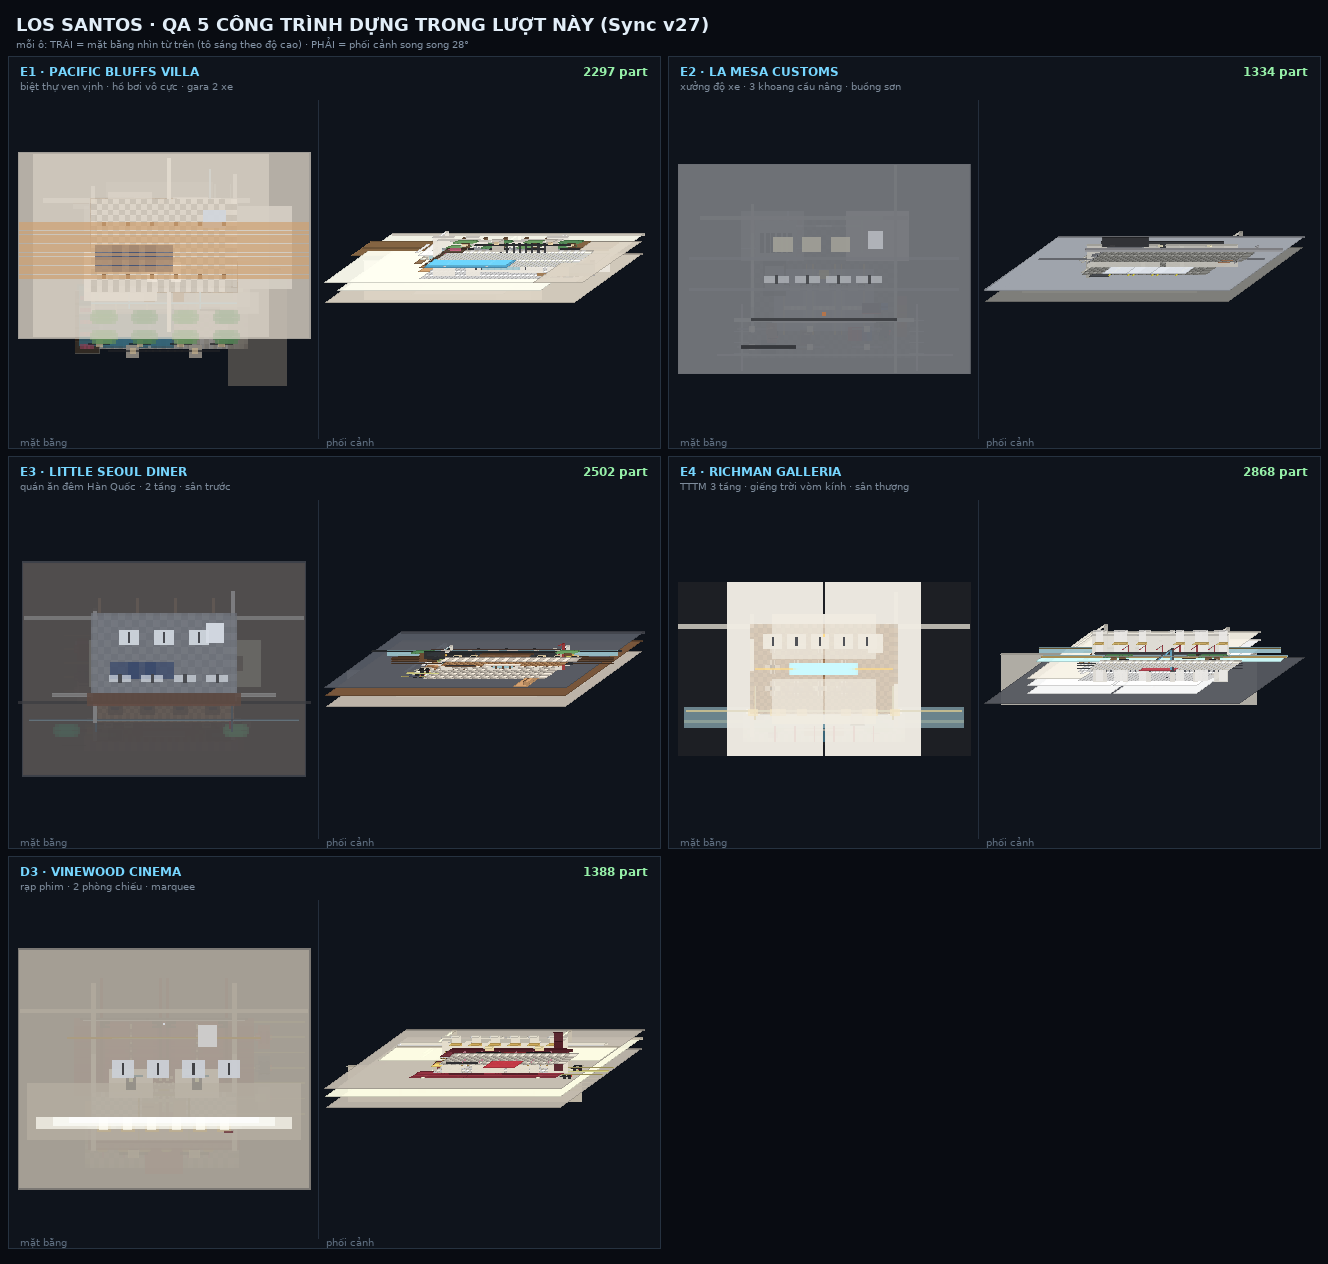
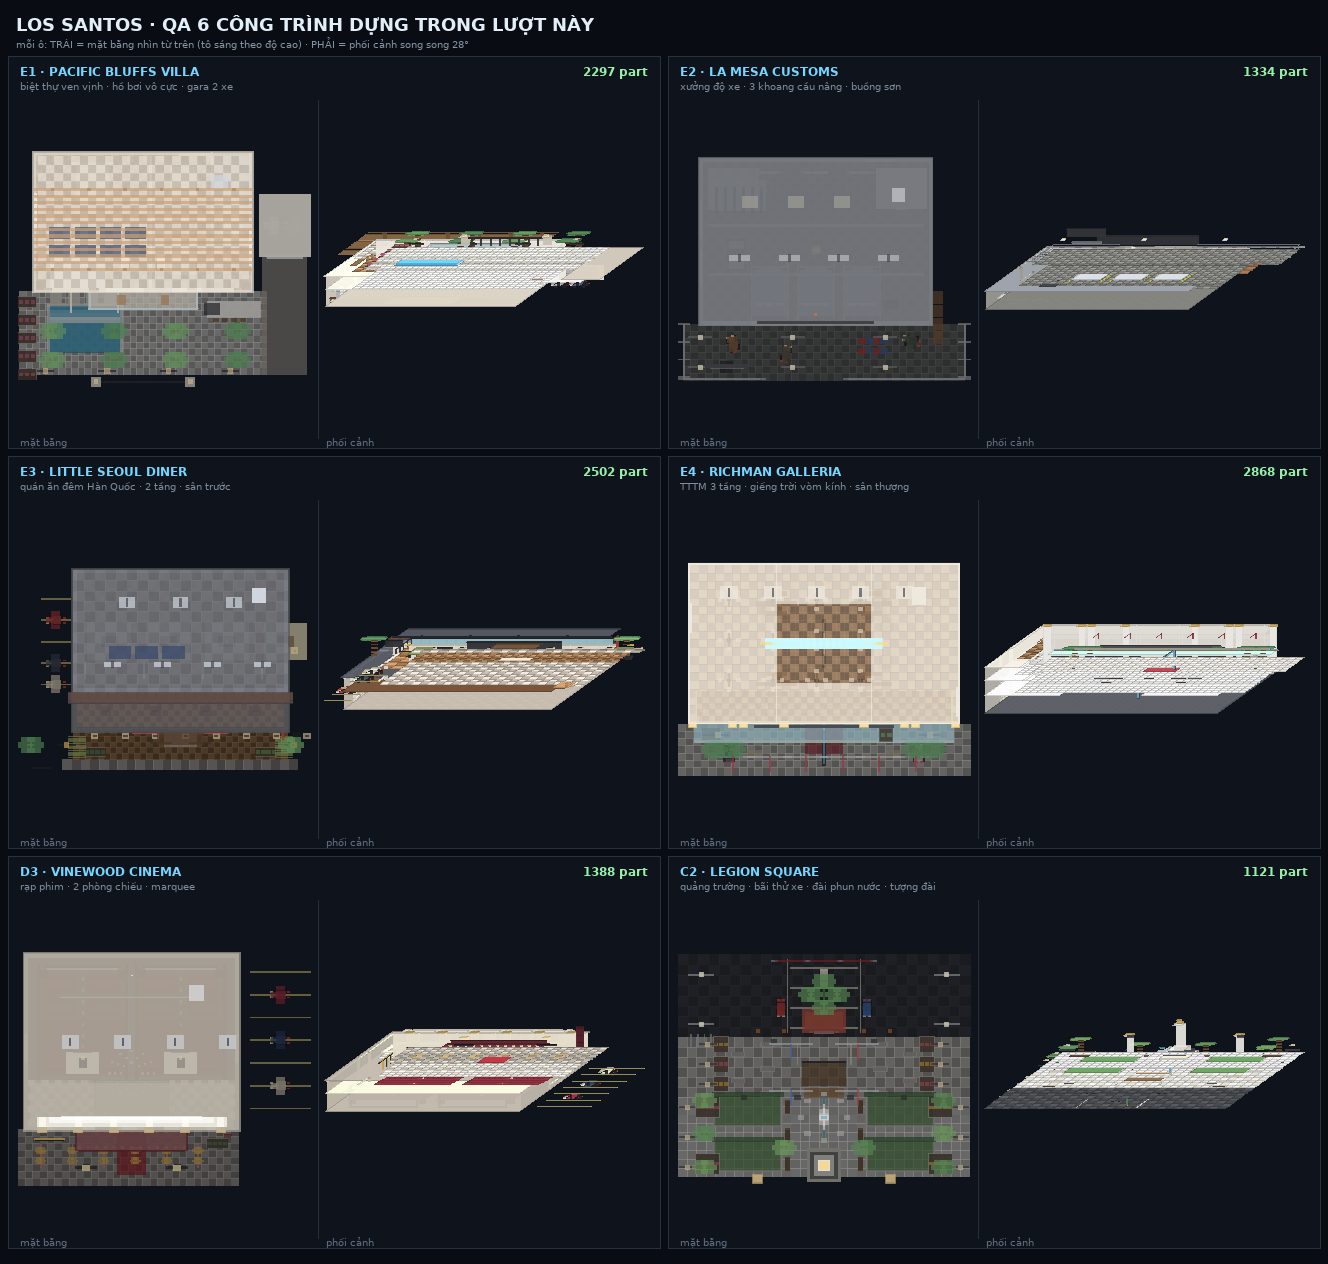
docs(qa): ảnh bản đồ + phối cảnh cập nhật (có C2), đưa script vẽ vào tools/building_sim

diff --git a/tools/building_sim/render_map.py b/tools/building_sim/render_map.py
@@ -1,0 +1,101 @@
+#!/usr/bin/env python3
+# Vẽ bản đồ QA thành phố từ /api/services của bridge + dump_parts.cjs.
+#   node tools/building_sim/dump_parts.cjs > /tmp/parts_all.json
+#   python3 tools/building_sim/render_map.py        # cần Pillow
+# Hình khối = chiếu bằng thật của từng part (nửa kích thước) — nhìn là thấy ô nào trống.
+import json, urllib.request
+from PIL import Image, ImageDraw, ImageFont
+
+parts = json.load(open("/tmp/parts_all.json"))
+svc = json.load(urllib.request.urlopen("http://localhost:8080/api/services"))
+W, H = 1680, 900
+X0, X1, Z0, Z1 = -640, 640, -300, 200
+MX, MY, MTOP = 54, 18, 74
+scale = min((W - 2 * MX) / (X1 - X0), (H - MTOP - 30) / (Z1 - Z0))
+ox = (W - (X1 - X0) * scale) / 2
+oy = MTOP + (H - MTOP - 30 - (Z1 - Z0) * scale) / 2
+def sx(x): return ox + (x - X0) * scale
+def sz(z): return oy + (z - Z0) * scale
+
+img = Image.new("RGB", (W, H), (7, 10, 15))
+d = ImageDraw.Draw(img, "RGBA")
+F = "/usr/share/fonts/truetype/dejavu/"
+f_t = ImageFont.truetype(F + "DejaVuSans-Bold.ttf", 22)
+f_m = ImageFont.truetype(F + "DejaVuSans-Bold.ttf", 13)
+f_s = ImageFont.truetype(F + "DejaVuSans.ttf", 10)
+f_sb = ImageFont.truetype(F + "DejaVuSans-Bold.ttf", 10)
+
+d.text((22, 14), "LOS SANTOS · 10/10 Ô ĐẤT ĐÃ CÓ CÔNG TRÌNH", font=f_t, fill=(230, 240, 250))
+n_part = sum(len(v["parts"]) for v in parts.values())
+d.text((22, 44), f"{n_part:,} BasePart · {len(parts)} module · 15 quầy dịch vụ đang chạy · hình khối = chiếu bằng thật của từng part"
+       .replace(",", " "), font=f_s, fill=(140, 156, 174))
+
+# ── đường ────────────────────────────────────────────────────────────────────
+EW = [(-224, 40, "VINEWOOD BLVD"), (-36, 48, "OLYMPIC FREEWAY"), (148, 40, "VESPUCCI BLVD")]
+NS = [(-556, 40, None), (-338, 40, None), (-110, 48, None), (110, 48, None), (338, 40, None), (556, 40, None)]
+for c, w, name in EW:
+    d.rectangle([sx(X0), sz(c - w/2), sx(X1), sz(c + w/2)], fill=(25, 30, 37, 255))
+    d.line([sx(X0), sz(c - w/2), sx(X1), sz(c - w/2)], fill=(52, 62, 74, 255), width=1)
+    d.line([sx(X0), sz(c + w/2), sx(X1), sz(c + w/2)], fill=(52, 62, 74, 255), width=1)
+    if name:
+        for px in range(int(sx(X0)), int(sx(X1)), 44):
+            d.line([px, sz(c), px + 22, sz(c)], fill=(72, 84, 98, 255), width=1)
+        d.text((sx(X0) + 12, sz(c) - 17), name, font=f_sb, fill=(116, 130, 146, 255))
+for c, w, _ in NS:
+    d.rectangle([sx(c - w/2), sz(Z0), sx(c + w/2), sz(Z1)], fill=(25, 30, 37, 255))
+    d.line([sx(c - w/2), sz(Z0), sx(c - w/2), sz(Z1)], fill=(52, 62, 74, 255), width=1)
+    d.line([sx(c + w/2), sz(Z0), sx(c + w/2), sz(Z1)], fill=(52, 62, 74, 255), width=1)
+
+# ── ô đất + hình khối công trình ─────────────────────────────────────────────
+for p in svc["plots"]:
+    cx, cz, sw, sh = p["cx"], p["cz"], p["sx"], p["sz"]
+    d.rectangle([sx(cx - sw/2), sz(cz - sh/2), sx(cx + sw/2), sz(cz + sh/2)],
+                fill=(22, 32, 44, 210), outline=(46, 74, 96, 255), width=1)
+
+plot_of = {}
+for f, v in parts.items():
+    plot_of.setdefault(v["plotId"], []).extend(v["parts"])
+
+for pid, plist in plot_of.items():
+    for q in sorted(plist, key=lambda r: r["y"]):
+        k = max(0.0, min(1.0, (q["y"] - 1.0) / 44.0))
+        c = q["c"]
+        col = (int(min(255, c[0] * (0.5 + 0.6 * k) + 34 * k)),
+               int(min(255, c[1] * (0.5 + 0.6 * k) + 34 * k)),
+               int(min(255, c[2] * (0.5 + 0.6 * k) + 38 * k)))
+        a = 225 if q["ey"] > 2.5 else 120
+        x0 = sx(q["x"] - q["ex"]); x1 = sx(q["x"] + q["ex"])
+        y0 = sz(q["z"] - q["ez"]); y1 = sz(q["z"] + q["ez"])
+        if x1 - x0 < 0.6: x1 = x0 + 0.6
+        if y1 - y0 < 0.6: y1 = y0 + 0.6
+        d.rectangle([x0, y0, x1, y1], fill=col + (a,))
+
+# ── nhãn ô + quầy ────────────────────────────────────────────────────────────
+ALIAS = {"E1": "Plot_E1", "D1": "Plot_D1", "D2": "Plot_D2", "D3": "Plot_D3", "E2": "Plot_E2",
+         "E3": "Plot_E3", "C1": "Plot_C1", "C2": "Plot_C2", "C3": "Plot_C3_East", "E4": "Plot_E4"}
+for p in svc["plots"]:
+    cx, cz, sw, sh = p["cx"], p["cz"], p["sx"], p["sz"]
+    pid = ALIAS.get(p["id"], "Plot_" + p["id"])
+    n = len(plot_of.get(pid, []))
+    if p["id"] == "C3":
+        n = len(plot_of.get("Plot_C3_East", [])) + len(plot_of.get("Plot_C3_West", []))
+    tx = sx(cx - sw/2) + 6
+    ty = sz(cz - sh/2) + 6
+    lab = f"{p['id']} · {p['district']}"
+    wd = max(d.textlength(lab, font=f_m), d.textlength(f"{n} part", font=f_s)) + 12
+    d.rectangle([tx, ty, tx + wd, ty + 32], fill=(9, 13, 19, 214), outline=(48, 78, 100, 255))
+    d.text((tx + 6, ty + 3), lab, font=f_m, fill=(126, 214, 255, 255))
+    d.text((tx + 6, ty + 19), f"{n} part", font=f_s, fill=(150, 240, 170, 255))
+
+for s in svc["services"]:
+    px, py = sx(s["x"]), sz(s["z"])
+    if s["active"]:
+        d.ellipse([px-13, py-13, px+13, py+13], fill=(56, 189, 248, 34))
+        d.ellipse([px-7, py-7, px+7, py+7], fill=(56, 189, 248, 92))
+        d.ellipse([px-3, py-3, px+3, py+3], fill=(190, 240, 255, 255))
+    else:
+        d.ellipse([px-4, py-4, px+4, py+4], outline=(120, 132, 148, 150), width=1)
+
+OUT = __import__("os").path.join(__import__("os").path.dirname(__file__), "..", "..", "agents", "reviews", "city-map-v27.png")
+img.save(OUT)
+print("saved", img.size)

diff --git a/tools/building_sim/render_buildings.py b/tools/building_sim/render_buildings.py
@@ -1,0 +1,103 @@
+#!/usr/bin/env python3
+# Vẽ mặt bằng + phối cảnh song song cho từng công trình trong dump_parts.
+#   node tools/building_sim/dump_parts.cjs Plot_E1_PacificBluffsVilla ... > /tmp/parts_v27.json
+#   python3 tools/building_sim/render_buildings.py   # cần Pillow
+import json, math
+from PIL import Image, ImageDraw, ImageFont
+
+data = json.load(open("/tmp/parts_v27.json"))
+F = "/usr/share/fonts/truetype/dejavu/"
+f_b = ImageFont.truetype(F + "DejaVuSans-Bold.ttf", 18)
+f_m = ImageFont.truetype(F + "DejaVuSans-Bold.ttf", 12)
+f_s = ImageFont.truetype(F + "DejaVuSans.ttf", 10)
+
+TITLES = {
+    "Plot_E1_PacificBluffsVilla": ("E1 · PACIFIC BLUFFS VILLA", "biệt thự ven vịnh · hồ bơi vô cực · gara 2 xe"),
+    "Plot_E2_LaMesaGarage": ("E2 · LA MESA CUSTOMS", "xưởng độ xe · 3 khoang cầu nâng · buồng sơn"),
+    "Plot_E3_LittleSeoulDiner": ("E3 · LITTLE SEOUL DINER", "quán ăn đêm Hàn Quốc · 2 tầng · sân trước"),
+    "Plot_E4_RichmanGalleria": ("E4 · RICHMAN GALLERIA", "TTTM 3 tầng · giếng trời vòm kính · sân thượng"),
+    "Plot_D3_VinewoodCinema": ("D3 · VINEWOOD CINEMA", "rạp phim · 2 phòng chiếu · marquee"),
+    "Plot_C2_LegionSquare": ("C2 · LEGION SQUARE", "quảng trường · bãi thử xe · đài phun nước · tượng đài"),
+}
+ORDER = ["Plot_E1_PacificBluffsVilla", "Plot_E2_LaMesaGarage", "Plot_E3_LittleSeoulDiner",
+         "Plot_E4_RichmanGalleria", "Plot_D3_VinewoodCinema", "Plot_C2_LegionSquare"]
+
+PW, PH = 660, 400
+COLS = 2
+ROWS = 3
+W, H = PW * COLS + 8, PH * ROWS + 64
+img = Image.new("RGB", (W, H), (9, 12, 18))
+d = ImageDraw.Draw(img, "RGBA")
+d.text((16, 14), "LOS SANTOS · QA 6 CÔNG TRÌNH DỰNG TRONG LƯỢT NÀY", font=f_b, fill=(226, 238, 248))
+d.text((16, 38), "mỗi ô: TRÁI = mặt bằng nhìn từ trên (tô sáng theo độ cao) · PHẢI = phối cảnh song song 28°",
+       font=f_s, fill=(132, 148, 166))
+
+def fit(pts, ax, ay, aw, ah):
+    xs = [p[0] for p in pts]; ys = [p[1] for p in pts]
+    bx0, bx1, by0, by1 = min(xs), max(xs), min(ys), max(ys)
+    s = min(aw / max(1e-6, bx1 - bx0), ah / max(1e-6, by1 - by0))
+    ox = ax + (aw - (bx1 - bx0) * s) / 2 - bx0 * s
+    oy = ay + (ah - (by1 - by0) * s) / 2 - by0 * s
+    return s, ox, oy
+
+def plan(parts, ax, ay, aw, ah):
+    pts = [(p["x"] - p["ex"], p["z"] - p["ez"]) for p in parts] + \
+          [(p["x"] + p["ex"], p["z"] + p["ez"]) for p in parts]
+    s, ox, oy = fit(pts, ax, ay, aw, ah)
+    for p in sorted(parts, key=lambda q: q["y"]):
+        k = max(0.0, min(1.0, (p["y"] - 1.0) / 36.0))
+        col = tuple(int(min(255, v * (0.6 + 0.5 * k) + 30 * k)) for v in p["c"])
+        x0 = ox + (p["x"] - p["ex"]) * s; x1 = ox + (p["x"] + p["ex"]) * s
+        y0 = oy + (p["z"] - p["ez"]) * s; y1 = oy + (p["z"] + p["ez"]) * s
+        if x1 - x0 < 0.8: x1 = x0 + 0.8
+        if y1 - y0 < 0.8: y1 = y0 + 0.8
+        d.rectangle([x0, y0, x1, y1], fill=col + ((240 if p["ey"] > 3 else 175),))
+
+def axono(parts, ax, ay, aw, ah):
+    KX, KZ, KY = 0.94, 0.40, 0.62
+    def proj(x, y, z):
+        return ((x * KX + z * KZ), (-z * KZ * 0.72 - (y - 1.15) * KY))
+    pts = []
+    for p in parts:
+        for sx in (-1, 1):
+            for sy in (-1, 1):
+                for sz in (-1, 1):
+                    pts.append(proj(p["x"] + sx * p["ex"], p["y"] + sy * p["ey"], p["z"] + sz * p["ez"]))
+    s, ox, oy = fit(pts, ax, ay, aw, ah)
+    for p in sorted(parts, key=lambda q: (q["z"], q["y"])):
+        col = tuple(int(min(255, v * 0.9 + 14)) for v in p["c"])
+        top = [proj(p["x"] + sx * p["ex"], p["y"] + p["ey"], p["z"] + sz * p["ez"])
+               for sx, sz in ((-1, -1), (1, -1), (1, 1), (-1, 1))]
+        face_top = [(ox + q[0] * s, oy + q[1] * s) for q in top]
+        d.polygon(face_top, fill=tuple(min(255, int(v * 1.22) + 16) for v in p["c"]) + (240,))
+        # mặt hướng Nam (ra trước)
+        a0 = proj(p["x"] - p["ex"], p["y"] - p["ey"], p["z"] + p["ez"])
+        a1 = proj(p["x"] + p["ex"], p["y"] - p["ey"], p["z"] + p["ez"])
+        b0 = proj(p["x"] - p["ex"], p["y"] + p["ey"], p["z"] + p["ez"])
+        b1 = proj(p["x"] + p["ex"], p["y"] + p["ey"], p["z"] + p["ez"])
+        d.polygon([(ox + a0[0] * s, oy + a0[1] * s), (ox + a1[0] * s, oy + a1[1] * s),
+                   (ox + b1[0] * s, oy + b1[1] * s), (ox + b0[0] * s, oy + b0[1] * s)],
+                  fill=col + (240,))
+        d.line(face_top + [face_top[0]], fill=(0, 0, 0, 46), width=1)
+
+for i, key in enumerate(ORDER):
+    col, row = i % COLS, i // COLS
+    px, py = 8 + col * PW, 56 + row * PH
+    t, sub = TITLES[key]
+    d.rectangle([px, py, px + PW - 8, py + PH - 8], fill=(15, 20, 28, 255), outline=(38, 50, 64, 255))
+    d.text((px + 12, py + 8), t, font=f_m, fill=(118, 214, 255))
+    d.text((px + 12, py + 24), sub, font=f_s, fill=(126, 140, 156))
+    n = len(data[key]["parts"])
+    lbl = f"{n} part"
+    d.text((px + PW - 20 - d.textlength(lbl, font=f_m), py + 8), lbl, font=f_m, fill=(150, 240, 168))
+    parts = data[key]["parts"]
+    gx = px + 10 + 300
+    d.line([gx, py + 44, gx, py + PH - 18], fill=(36, 46, 60), width=1)
+    plan(parts, px + 10, py + 46, 292, PH - 66)
+    axono(parts, gx + 6, py + 46, PW - 40 - 300, PH - 66)
+    d.text((px + 12, py + PH - 20), "mặt bằng", font=f_s, fill=(96, 112, 130))
+    d.text((gx + 8, py + PH - 20), "phối cảnh", font=f_s, fill=(96, 112, 130))
+
+OUT = __import__("os").path.join(__import__("os").path.dirname(__file__), "..", "..", "agents", "reviews", "city-buildings-v27.png")
+img.save(OUT)
+print("ok", img.size)

diff --git a/README.md b/README.md
@@ -277,7 +277,9 @@ Dự án tái hiện thế giới mở **Grand Theft Auto V (Los Santos)** trên
     cắm xuyên (sàn/mái/bệ). In 8 cặp tệ nhất kèm thể tích chồng.
     → Bắt được 3 lỗi thật ở lượt này: **bếp ngoài + gara E1 nằm TRONG thân nhà**, **cột đá E4 chặn
     đúng tim cửa xoay**, **máy chiếu D3 cắm vào mái**. Cả 5 công trình mới hiện **0 cặp đè**.
-  - `dump_parts.cjs [module…]` — xuất JSON (tên/toạ độ/kích thước/ma trận xoay/màu) để vẽ QA.
+  - `dump_parts.cjs [module…]` — xuất JSON (tên/toạ độ/**nửa** kích thước/ma trận xoay/màu) để vẽ QA.
+  - `render_map.py` / `render_buildings.py` — vẽ ảnh QA (cần Pillow): bản đồ thành phố có hình khối
+    thật của từng part, và mặt bằng + phối cảnh song song cho từng công trình.
   - `counter_check.cjs --solve` chạy lại: **14/14 quầy trống**, áp offset mới cho `E3_FOOD`
     `(1,5 · 61,0)`→(−445,5 · 119,0) nền 1,41 và `E4_MALL` `(2,0 · 65,0)`→(449,0 · 123,0) nền 1,29.
 - [ ] **Bước 17: VÒNG 7 — chưa giao** (thành phố đã đủ 10/10 ô; việc còn lại là chiều sâu gameplay,
